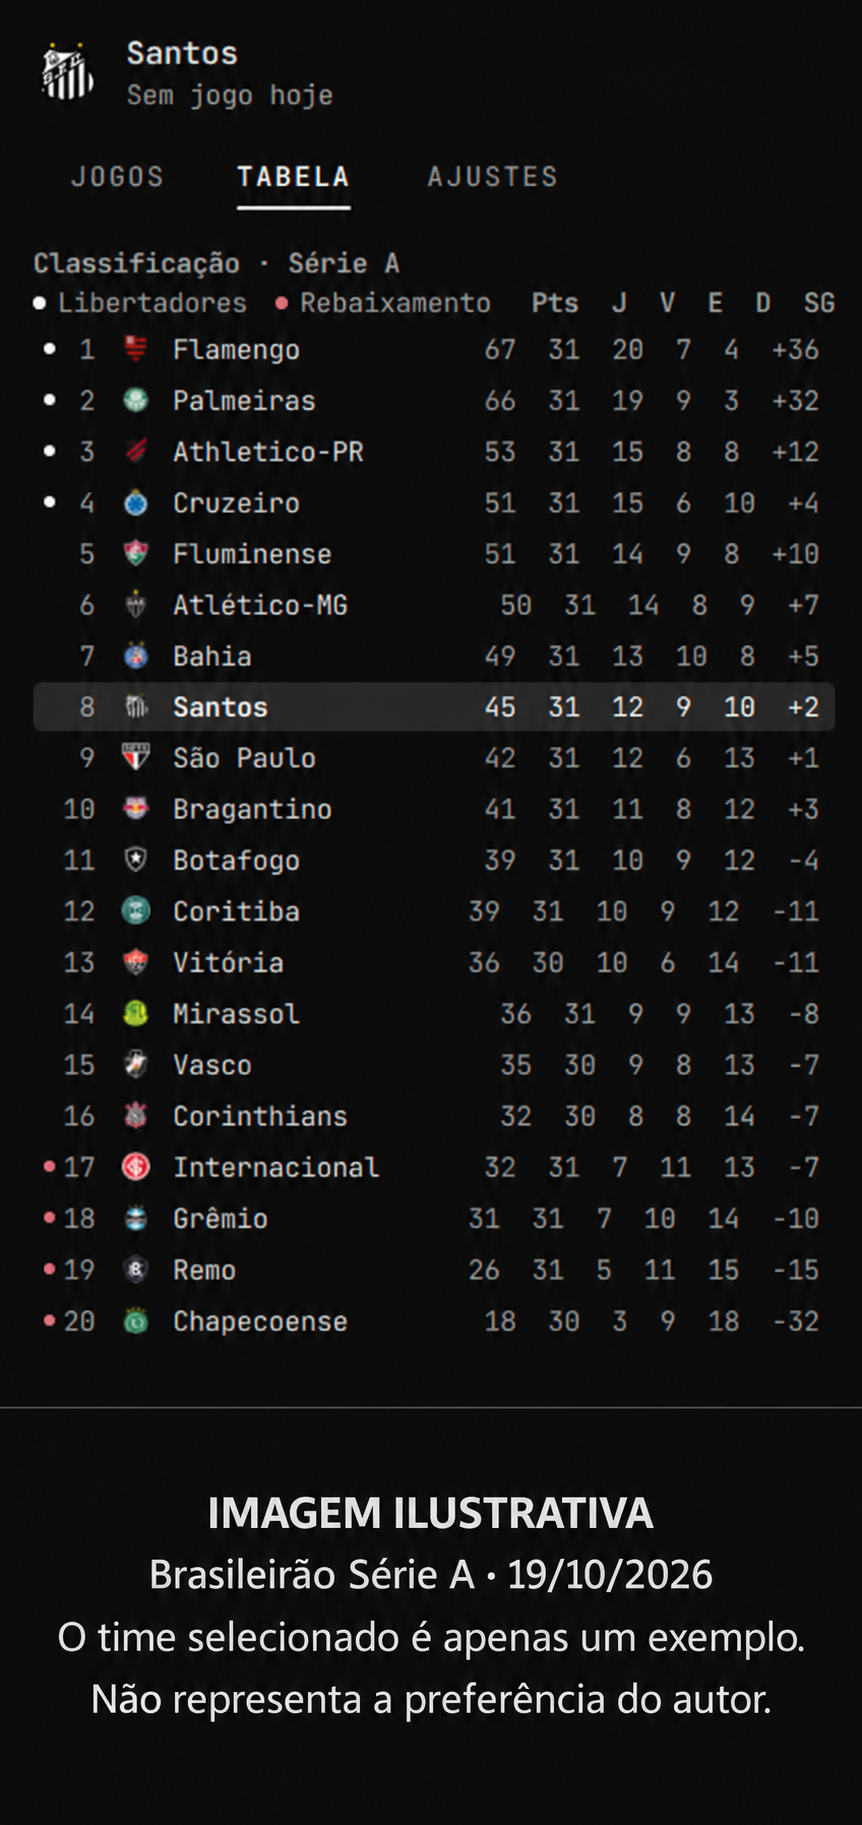
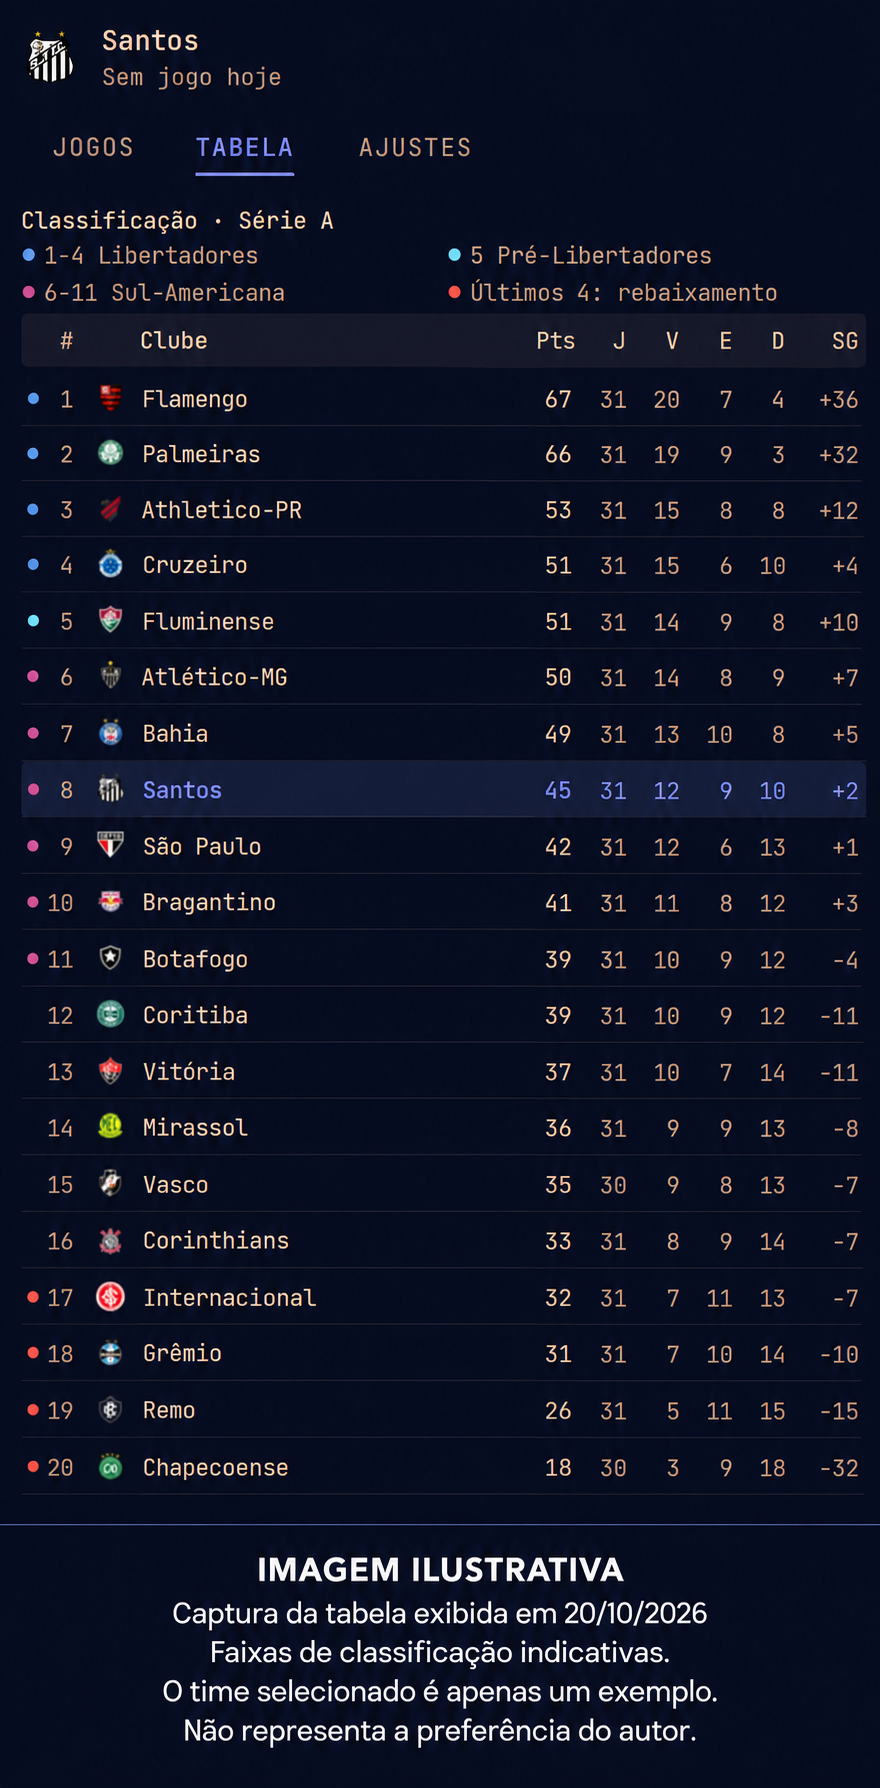
Align standings columns and refresh dated illustrative preview

Changed region(s): [[0.0, 0.0, 0.9954, 0.9843]]

diff --git a/Panel.qml b/Panel.qml
@@ -992,7 +992,7 @@ Panel {
     target: "russio.football"
 
     function status(): string {
-      return JSON.stringify({ version: "1.0.2", league: root.league, team: root.teamId,
+      return JSON.stringify({ version: "1.0.3", league: root.league, team: root.teamId,
         matches: root.todayMatches.length, standings: root.standings.length,
         cachedCrests: Object.keys(root.crestUris).length, queuedCrests: root.crestQueue.length,
         scoreboardError: root.scoreboardError, standingsError: root.standingsError,
@@ -1026,7 +1026,7 @@ Panel {
     bar: root.bar
     open: root.opened
     focusTarget: keyCatcher
-    contentWidth: panel.fittedContentWidth(Style.space(340))
+    contentWidth: panel.fittedContentWidth(Style.space(root.activeTab === "tabela" ? 420 : 340))
     contentHeight: panel.fittedContentHeight(popupColumn.implicitHeight)
 
     PanelKeyCatcher {
@@ -1446,6 +1446,15 @@ Panel {
       id: tabelaColumn
       width: parent.width
       spacing: Style.space(2)
+      readonly property real statsWidth: Style.space(160)
+      readonly property var statColumns: [
+        { label: "Pts", key: "points", width: 30 },
+        { label: "J", key: "played", width: 24 },
+        { label: "V", key: "wins", width: 24 },
+        { label: "E", key: "draws", width: 24 },
+        { label: "D", key: "losses", width: 24 },
+        { label: "SG", key: "gd", width: 34 }
+      ]
 
       PanelSectionHeader {
         text: "Classificação · " + Model.leagueName(root.league)
@@ -1483,45 +1492,68 @@ Panel {
         }
       }
 
-      Item {
+      Text {
+        visible: root.league !== "bra.1"
+        textFormat: Text.PlainText
+        text: "Últimos 4: rebaixamento indicativo"
+        color: root.urgentColor
+        font.family: root.fontFamily
+        font.pixelSize: Style.font.caption
+      }
+
+      Rectangle {
         width: parent.width
-        height: 16
+        height: Style.space(26)
+        radius: 4
+        color: Qt.rgba(root.foreground.r, root.foreground.g, root.foreground.b, 0.06)
 
-        Row {
+        Text {
+          text: "#"
+          color: root.mutedColor
+          font.family: root.fontFamily
+          font.pixelSize: Style.font.caption
+          width: 14
+          horizontalAlignment: Text.AlignRight
           anchors.left: parent.left
+          anchors.leftMargin: Style.space(12)
           anchors.verticalCenter: parent.verticalCenter
-          spacing: Style.space(10)
-
-          Row {
-            visible: root.league !== "bra.1"
-            spacing: Style.space(4)
-            Rectangle { width: 6; height: 6; radius: 3; color: root.urgentColor; anchors.verticalCenter: parent.verticalCenter }
-            Text {
-              textFormat: Text.PlainText
-              text: "Rebaixamento"
-              color: root.mutedColor
-              font.family: root.fontFamily
-              font.pixelSize: Style.font.caption
-              anchors.verticalCenter: parent.verticalCenter
-            }
-          }
         }
 
         Text {
           textFormat: Text.PlainText
-          text: "Pts  J  V  E  D  SG"
+          text: "Clube"
           color: root.mutedColor
           font.family: root.fontFamily
           font.pixelSize: Style.font.caption
           font.bold: true
-          anchors.right: parent.right
+          anchors.left: parent.left
+          anchors.leftMargin: Style.space(54)
           anchors.verticalCenter: parent.verticalCenter
+        }
+
+        Row {
+          anchors.right: parent.right
+          anchors.rightMargin: Style.space(6)
+          anchors.verticalCenter: parent.verticalCenter
+          Repeater {
+            model: tabelaColumn.statColumns
+            Text {
+              required property var modelData
+              width: Style.space(modelData.width)
+              text: modelData.label
+              color: root.mutedColor
+              font.family: root.fontFamily
+              font.pixelSize: Style.font.caption
+              font.bold: true
+              horizontalAlignment: Text.AlignRight
+            }
+          }
         }
       }
 
       Column {
         width: parent.width
-        spacing: Style.space(1)
+        spacing: 0
 
         Repeater {
           model: root.standings
@@ -1533,7 +1565,7 @@ Panel {
             readonly property bool followed: String(modelData.id) === root.teamId
             readonly property string zone: Model.standingsZone(modelData.rank, root.standings.length, root.league)
             width: parent.width
-            height: 22
+            height: Style.space(26)
 
             Rectangle {
               anchors.fill: parent
@@ -1543,6 +1575,14 @@ Panel {
                 : (tableMouse.containsMouse
                    ? Qt.rgba(root.foreground.r, root.foreground.g, root.foreground.b, 0.04)
                    : "transparent")
+            }
+
+            Rectangle {
+              width: parent.width
+              height: 1
+              anchors.bottom: parent.bottom
+              color: root.foreground
+              opacity: 0.07
             }
 
             MouseArea {
@@ -1595,21 +1635,31 @@ Panel {
               elide: Text.ElideRight
               anchors.left: parent.left
               anchors.leftMargin: Style.space(54)
+              anchors.right: statValues.left
+              anchors.rightMargin: Style.space(8)
               anchors.verticalCenter: parent.verticalCenter
             }
 
-            Text {
-              textFormat: Text.PlainText
-              text: modelData.points + "  " + modelData.played + "  "
-                + modelData.wins + "  " + modelData.draws + "  "
-                + modelData.losses + "  "
-                + (modelData.gd > 0 ? "+" + modelData.gd : modelData.gd)
-              color: tableRow.followed ? root.accentColor : root.mutedColor
-              font.family: root.fontFamily
-              font.pixelSize: Style.font.caption
+            Row {
+              id: statValues
+              width: tabelaColumn.statsWidth
               anchors.right: parent.right
               anchors.rightMargin: Style.space(6)
               anchors.verticalCenter: parent.verticalCenter
+              Repeater {
+                model: tabelaColumn.statColumns
+                Text {
+                  required property var modelData
+                  width: Style.space(modelData.width)
+                  textFormat: Text.PlainText
+                  text: (modelData.key === "gd" && tableRow.modelData.gd > 0 ? "+" : "") + tableRow.modelData[modelData.key]
+                  color: tableRow.followed ? root.accentColor : root.mutedColor
+                  font.family: root.fontFamily
+                  font.pixelSize: Style.font.caption
+                  font.bold: modelData.key === "points"
+                  horizontalAlignment: Text.AlignRight
+                }
+              }
             }
           }
         }

diff --git a/README.md b/README.md
@@ -9,7 +9,7 @@ Nome em inglês: **Brazilian Série A Standings for Omarchy**.
 ![Painel aberto com a classificação da Série A e os escudos dos 20 clubes](preview.png)
 
 **Imagem ilustrativa:** captura da tabela do Brasileirão Série A exibida pelo
-plugin em **19/10/2026**. A classificação pode mudar após essa data. O time
+plugin em **20/10/2026**. A classificação pode mudar após essa data. O time
 selecionado e os destaques servem apenas para demonstrar a interface e **não
 representam as preferências futebolísticas do autor do plugin**.
 
@@ -88,6 +88,11 @@ São referências fixas, não uma confirmação de classificação: vagas extras
 campeões de copas e mudanças de regulamento podem alterar os classificados.
 As faixas continentais não são aplicadas a outras ligas; nas tabelas com mais de
 12 clubes, os quatro últimos continuam marcados como rebaixamento indicativo.
+
+A tabela usa colunas alinhadas para posição, clube, pontos (Pts), jogos (J),
+vitórias (V), empates (E), derrotas (D) e saldo de gols (SG). Divisórias separam
+as linhas, os pontos ficam em destaque e nomes longos são truncados sem invadir
+as estatísticas. A aba Tabela é mais larga para acomodar os dados.
 
 ## Dados, rede e privacidade
 

diff --git a/README.en-US.md b/README.en-US.md
@@ -9,7 +9,7 @@ Portuguese name: **Tabela Brasileirão Série A para Omarchy**.
 ![Open panel showing Série A standings and all 20 club crests](preview.png)
 
 **Illustrative image:** a capture of the Brazilian Série A standings displayed
-by the plugin on **October 19, 2026**. Standings may change after that date. The
+by the plugin on **October 20, 2026**. Standings may change after that date. The
 selected club and highlights only demonstrate the interface and **do not
 represent the plugin author's club preferences**.
 
@@ -87,6 +87,11 @@ These are fixed reference zones, not confirmation of qualification: extra berths
 cup winners, and rule changes may affect the actual qualifiers. Continental zones
 are not applied to other leagues; tables with more than 12 clubs retain indicative
 relegation markers for the bottom four.
+
+The table uses aligned columns for rank, club, points (Pts), played (J), wins (V),
+draws (E), losses (D), and goal difference (SG). Row separators improve scanning,
+points are emphasized, and long club names are elided without overlapping the
+statistics. The standings tab is wider to accommodate the data.
 
 ## Data, networking, and privacy
 
